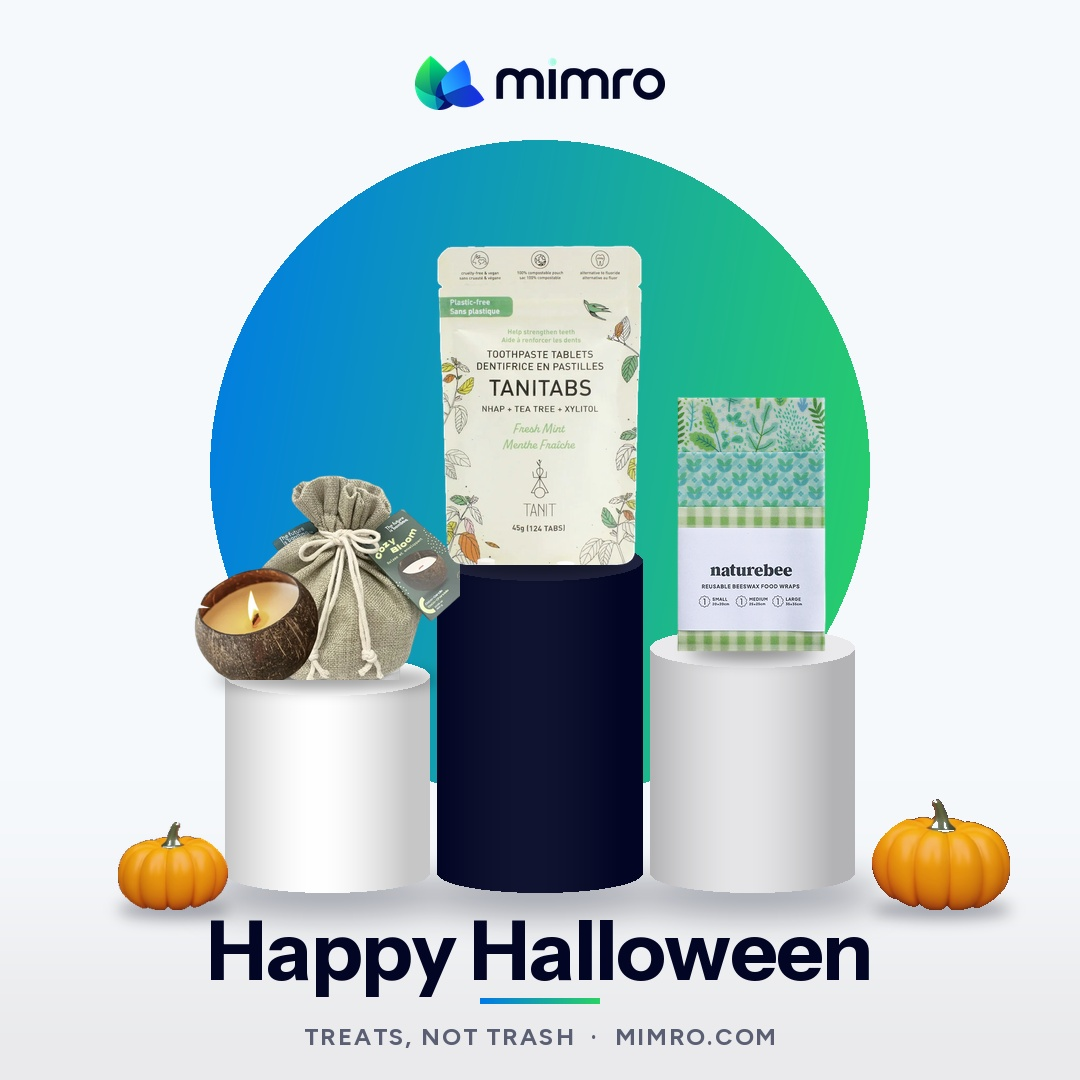
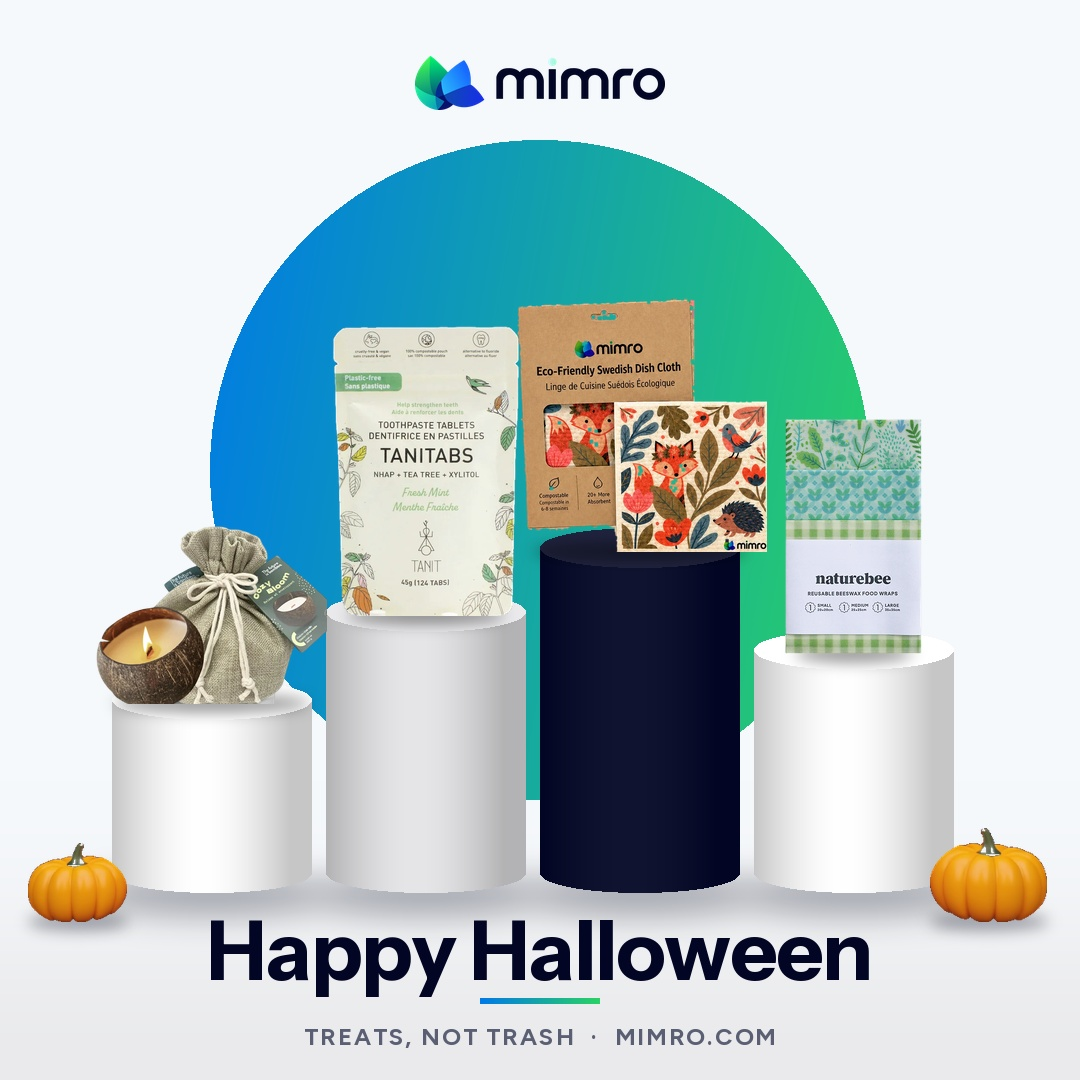
Halloween brand post: add MIMRO Swedish Dishcloth (Mimro Originals) as hero product
Claude-Session: https://claude.ai/code/session_01NAdrPTam75Ss9kLmxSuENc

Changed region(s): [[0.0306, 0.2139, 0.9778, 0.8861]]

diff --git a/halloween_post/caption.md b/halloween_post/caption.md
@@ -3,7 +3,8 @@
 Final image (Mimro brand system): mimro_halloween_brand.jpg — palette from mimro.com theme + Eco-Quest/Creators designs: ink #020624, signature gradient #007AE7→#2AD265, soft bg #F6F9FC, line #E6E5E7, muted #5A5F73; headline Instrument Sans Bold (site heading font), subline Figtree (site body font); official logo mimro_PNG-02
 Previous modern (navy/orange) version: mimro_halloween_modern.jpg — navy studio, harvest-moon circle, colour podiums, real store products, bold headline
 Previous version (real products, rustic): mimro_halloween_real_products.jpg (alt: mimro_halloween_real_products_alt.jpg)
-Featured: THE FUTURE IS BAMBOO Cozy Bloom Coconut Shell Candle, TANIT 124 Tablets Fresh Mint Toothpaste, NATURE BEE 3PCS Beeswax Wrap Set (Green)
+Featured (brand version): MIMRO Swedish Dishcloth (Mimro Originals, hero), THE FUTURE IS BAMBOO Cozy Bloom Coconut Shell Candle, TANIT Fresh Mint Toothpaste Tablets, NATURE BEE Beeswax Wraps
+Featured (earlier versions): THE FUTURE IS BAMBOO Cozy Bloom Coconut Shell Candle, TANIT 124 Tablets Fresh Mint Toothpaste, NATURE BEE 3PCS Beeswax Wrap Set (Green)
 Earlier concept image: mimro_halloween_post.jpg (1080×1080, Runway Gen-4, Mimro logo top-right + search-bar overlay, styled after the Notion Social Post visual sample)
 Alternate: mimro_halloween_post_alt.jpg
 Earlier landscape drafts: v1–v4.png
@@ -16,6 +17,7 @@ Tonight is for glowing pumpkins, cozy candles and treats that don't leave a trai
 
 A few easy ways to have a spooky-but-sustainable night:
 🕯 Light a natural coconut shell candle instead of a paraffin one
+🧽 Wipe up the sticky candy mess with a compostable Mimro Swedish dishcloth
 🎁 Wrap homemade treats in beeswax wraps, not plastic
 🦷 Brush away the candy with plastic-free toothpaste tablets
 👜 Trick-or-treat with a reusable tote, not a plastic bucket
